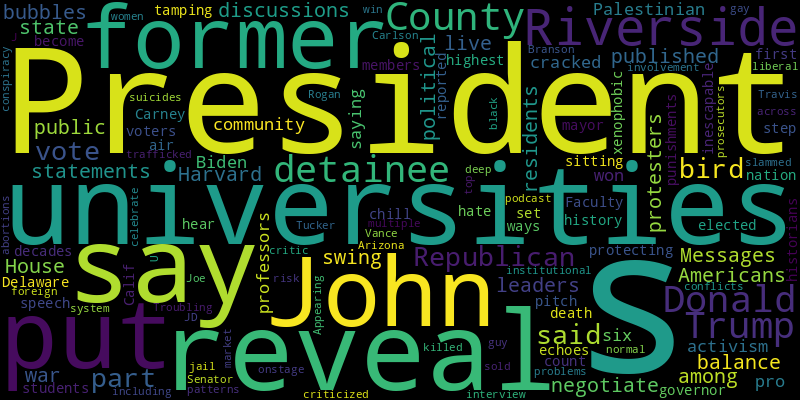
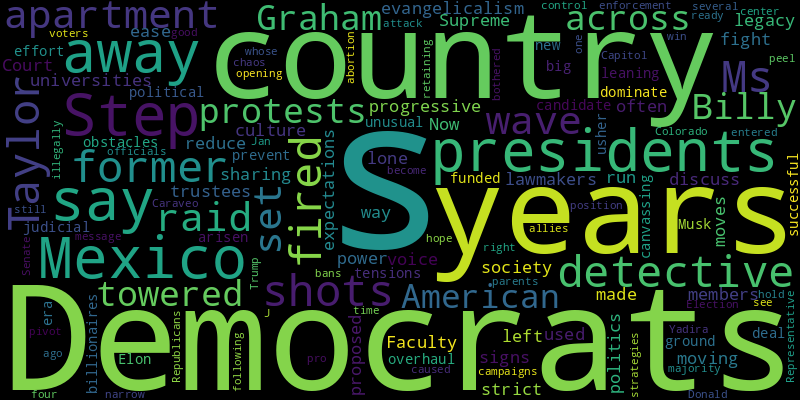
chore(bot): 👻 auto commit

diff --git a/README.md b/README.md
@@ -2,34 +2,35 @@
 Auto RSS New York Times and Generate Word Cloud
 
 ## New York Times Global News
+* With fewer men willing to fight, Russia is focusing on cash incentives for those who sign up, seeking to avoid an unpopular draft while still increasing the ranks of soldiers.
+* Political parties that have governed for decades since African countries overthrew colonial rulers are now being challenged by frustrated young voters.
+* Based in Parma, Club dei 27 is so exclusive that it’s given rise to all sorts of myths. But it’s really about venerating the famous opera composer born near the Italian city.
+* Complex negotiations involving several players are proceeding on two separate but related tracks.
+* A lone voice on Mexico’s Supreme Court has proposed a way to ease the political tensions that have arisen over a judicial overhaul. But big obstacles could prevent any deal.
+* A city with temple pyramids not far from the road and a site with a Maya complex built alongside a sinkhole lend to evidence that the Maya civilization was even more sprawling than known.
+* Even with peace talks underway, the region is far from stable.
+* At a critical battlefield in eastern Ukraine, advanced technology is shaping battles that resemble the wars of older eras. When drones are watching, assaults become violent sprints.
 * Rescuers in Paiporta, where more than 60 people died, were still pulling bodies from the mud. “We are alive,” a resident said. “But we have lost everything.”
-* Flash flooding across Spain killed more than 150 people after torrential rain left towns and villages submerged and turned streets into rivers.
-* After more than a year of war, farmers have lost land, equipment and sometimes their lives.
-* After Sheynnis Palacios won the Miss Universe title, her country’s government arrested the family members of the Miss Nicaragua contest director, and she hasn’t returned home since.
 * Human rights watchdogs say Azerbaijan is in the midst of a vicious campaign of repression. But in global geopolitics, this energy-rich Caucasus country now has a lot of leverage.
-* The Russian mercenary group operated with little pushback in the West African nation — until it launched one of its most ambitious missions.
-* After nearly 60 years, the Botswana Democratic Party lost its majority in Parliament, becoming the latest long-dominant party in southern Africa to fall from power.
-* A confrontation between the judiciary and the governing party will test Claudia Sheinbaum’s leadership and offer a window into how she will wield power.
-* It was unclear how or when Iran plans to respond, or whether the rhetoric could be bluster. Iranian officials had downplayed the damage of Israel’s last attack.
-* The launch, into waters west of Japan, came shortly after the United States and South Korea criticized the North for sending troops to join Russia’s war.
 
 ![Global](./global.png)
 ## New York Times United States News
-* Messages among leaders at Harvard and other universities, published by House Republicans, reveal discussions on how to balance public statements about the war and how to negotiate with protesters.
-* Most Americans live in political bubbles, but not residents of this swing-state community, where President Biden won in 2020 by six votes.
-* Universities have cracked down on professors for pro-Palestinian activism, saying they are protecting students and tamping down on hate speech. Faculty members say punishments have put a “chill in the air.”
-* John Carney of Delaware is set to become the first sitting governor to be elected a mayor. In some ways, he says, “it’s a step up.”
-* In the former president’s pitch to voters, historians hear echoes of the nation’s inescapable xenophobic history.
-* Riverside County, Calif., reported its highest detainee death count in decades, including multiple suicides that reveal deep institutional problems.
-* Troubling patterns across the Riverside County jail system put detainees at risk.
-* In an onstage interview in Arizona with Tucker Carlson, former President Donald J. Trump slammed a top Republican critic as he criticized U.S. involvement in foreign conflicts.
-* Travis John Branson was part of a conspiracy that killed 3,600 birds, prosecutors said. He also trafficked and sold bird parts on the black market.
-* Appearing on Joe Rogan’s podcast, Senator JD Vance also said that liberal women celebrate their abortions and that Donald Trump would win the “normal gay guy vote.”
+* The former detective fired 10 shots through Ms. Taylor’s apartment in a raid in 2020 that set off a wave of protests across the country.
+* Billy Graham towered over American evangelicalism for 50 years. Now the fight is on to own his legacy.
+* Faculty members are used to sharing power with presidents and trustees to run universities. But some presidents and lawmakers have made moves to reduce their say.
+* There are signs that society is moving away from the progressive left’s often strict expectations about how to discuss culture and politics.
+* A lone voice on Mexico’s Supreme Court has proposed a way to ease the political tensions that have arisen over a judicial overhaul. But big obstacles could prevent any deal.
+* The candidate is leaning on an unusual canvassing effort funded by Elon Musk. If successful, it could usher in a new era when billionaires dominate ground campaigns.
+* Representative Yadira Caraveo of Colorado, whose parents entered the country illegally from Mexico, has become one of several Democrats to pivot to a pro-enforcement message.
+* Step by step, Donald J. Trump and his allies are following the strategies that caused chaos four years ago. Election officials say they are ready this time.
+* Democrats see a narrow opening to peel away center-right voters bothered by abortion bans and by the Jan. 6 attack on the Capitol.
+* Republicans are in good position to win the Senate majority, but Democrats still hold hope of retaining control.
 
 ![US](./usnews.png)
 ## New York Times Asia News
+* The Biden administration said it had reached a settlement after the U.S. chipmaker voluntarily disclosed that it had shipped products to a firm linked with China’s military industrial complex.
+* He was sued and prosecuted for his actions as chairman of the Japanese power company that ran the Fukushima nuclear facility when it failed in a 2011 earthquake and tsunami.
 * Communities that suffered the worst of plant closings in recent decades are now gaining an outsize share of fresh investment and new jobs.
-* Leading Republican politicians and lax social media controls have contributed to a proliferation of hate rhetoric and anti-immigrant sentiment.
 * The government, its makeup in flux after the governing party lost seats this week, will soon need to make decisions that will shape Japan’s future nuclear policy.
 * A second Donald J. Trump presidency would almost certainly mark a return to an era of foreign policy decrees, untethered to any policy process, at a moment of maximum international peril.
 * Plus, Japan's passion for the World Series.
@@ -37,6 +38,5 @@ Auto RSS New York Times and Generate Word Cloud
 * Shohei Ohtani, the Dodgers’ superstar, drove massive interest for the World Series in Japan, where more than 15 million people watched each of the first two games.
 * Comedy has become a way for women to skewer China’s gender inequality. Some men aren’t happy about it.
 * A brutal price war, sudden shifts in consumer demand and human rights issues in Xinjiang have left VW stumbling in a market it led for 40 years.
-* The launch, into waters west of Japan, came shortly after the United States and South Korea criticized the North for sending troops to join Russia’s war.
 
 ![Asian](./asian.png)

diff --git a/archive/2024-11-01.md b/archive/2024-11-01.md
@@ -1,0 +1,42 @@
+# NewsArchive
+Auto RSS New York Times and Generate Word Cloud
+
+## New York Times Global News
+* Rescuers in Paiporta, where more than 60 people died, were still pulling bodies from the mud. “We are alive,” a resident said. “But we have lost everything.”
+* Flash flooding across Spain killed more than 150 people after torrential rain left towns and villages submerged and turned streets into rivers.
+* After more than a year of war, farmers have lost land, equipment and sometimes their lives.
+* After Sheynnis Palacios won the Miss Universe title, her country’s government arrested the family members of the Miss Nicaragua contest director, and she hasn’t returned home since.
+* Human rights watchdogs say Azerbaijan is in the midst of a vicious campaign of repression. But in global geopolitics, this energy-rich Caucasus country now has a lot of leverage.
+* The Russian mercenary group operated with little pushback in the West African nation — until it launched one of its most ambitious missions.
+* After nearly 60 years, the Botswana Democratic Party lost its majority in Parliament, becoming the latest long-dominant party in southern Africa to fall from power.
+* A confrontation between the judiciary and the governing party will test Claudia Sheinbaum’s leadership and offer a window into how she will wield power.
+* It was unclear how or when Iran plans to respond, or whether the rhetoric could be bluster. Iranian officials had downplayed the damage of Israel’s last attack.
+* The launch, into waters west of Japan, came shortly after the United States and South Korea criticized the North for sending troops to join Russia’s war.
+
+![Global](./global.png)
+## New York Times United States News
+* Messages among leaders at Harvard and other universities, published by House Republicans, reveal discussions on how to balance public statements about the war and how to negotiate with protesters.
+* Most Americans live in political bubbles, but not residents of this swing-state community, where President Biden won in 2020 by six votes.
+* Universities have cracked down on professors for pro-Palestinian activism, saying they are protecting students and tamping down on hate speech. Faculty members say punishments have put a “chill in the air.”
+* John Carney of Delaware is set to become the first sitting governor to be elected a mayor. In some ways, he says, “it’s a step up.”
+* In the former president’s pitch to voters, historians hear echoes of the nation’s inescapable xenophobic history.
+* Riverside County, Calif., reported its highest detainee death count in decades, including multiple suicides that reveal deep institutional problems.
+* Troubling patterns across the Riverside County jail system put detainees at risk.
+* In an onstage interview in Arizona with Tucker Carlson, former President Donald J. Trump slammed a top Republican critic as he criticized U.S. involvement in foreign conflicts.
+* Travis John Branson was part of a conspiracy that killed 3,600 birds, prosecutors said. He also trafficked and sold bird parts on the black market.
+* Appearing on Joe Rogan’s podcast, Senator JD Vance also said that liberal women celebrate their abortions and that Donald Trump would win the “normal gay guy vote.”
+
+![US](./usnews.png)
+## New York Times Asia News
+* Communities that suffered the worst of plant closings in recent decades are now gaining an outsize share of fresh investment and new jobs.
+* Leading Republican politicians and lax social media controls have contributed to a proliferation of hate rhetoric and anti-immigrant sentiment.
+* The government, its makeup in flux after the governing party lost seats this week, will soon need to make decisions that will shape Japan’s future nuclear policy.
+* A second Donald J. Trump presidency would almost certainly mark a return to an era of foreign policy decrees, untethered to any policy process, at a moment of maximum international peril.
+* Plus, Japan's passion for the World Series.
+* American agencies have assessed that China dislikes the growing partnership between Russia and North Korea. The State Department has raised the troop issue with Chinese diplomats.
+* Shohei Ohtani, the Dodgers’ superstar, drove massive interest for the World Series in Japan, where more than 15 million people watched each of the first two games.
+* Comedy has become a way for women to skewer China’s gender inequality. Some men aren’t happy about it.
+* A brutal price war, sudden shifts in consumer demand and human rights issues in Xinjiang have left VW stumbling in a market it led for 40 years.
+* The launch, into waters west of Japan, came shortly after the United States and South Korea criticized the North for sending troops to join Russia’s war.
+
+![Asian](./asian.png)
